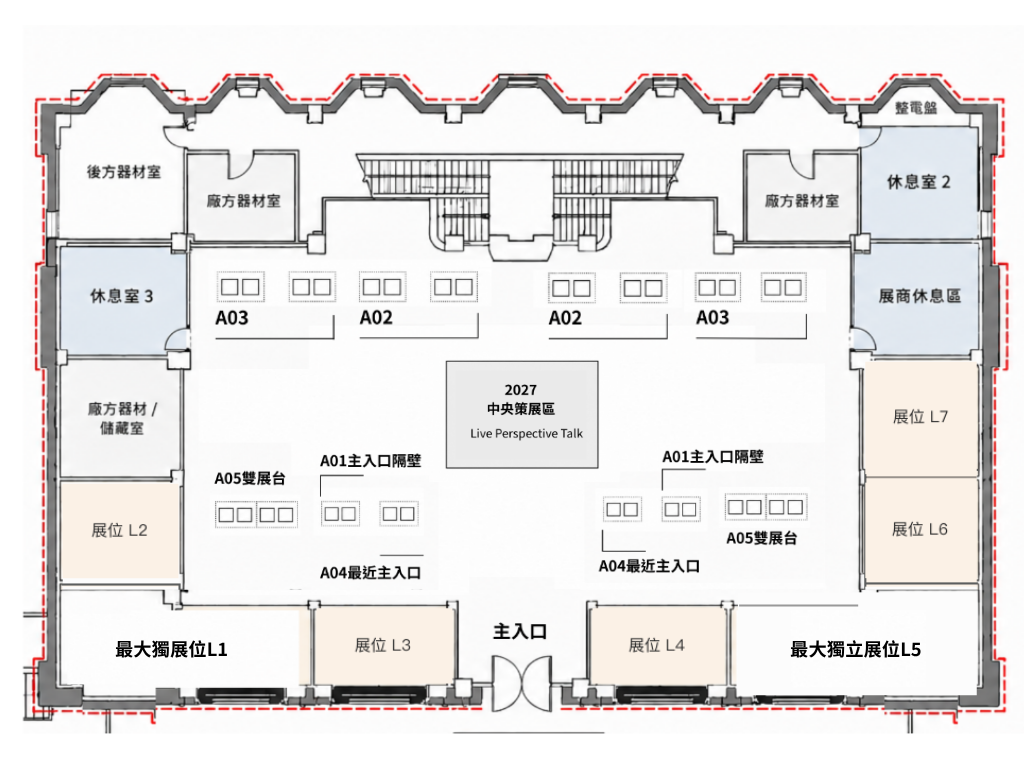
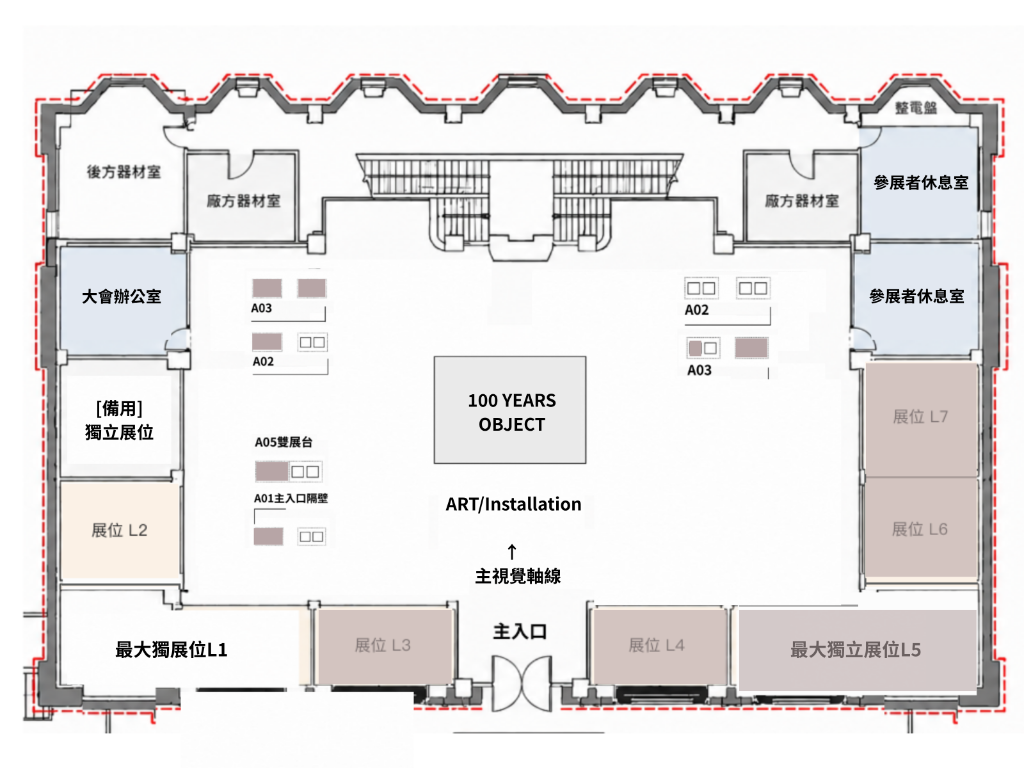
feat: replace all floor plan images with updated exhibition layout

diff --git a/public/sw.js b/public/sw.js
@@ -1,1 +1,1 @@
-if(!self.define){let e,c={};const a=(a,i)=>(a=new URL(a+".js",i).href,c[a]||new Promise(c=>{if("document"in self){const e=document.createElement("script");e.src=a,e.onload=c,document.head.appendChild(e)}else e=a,importScripts(a),c()}).then(()=>{let e=c[a];if(!e)throw new Error(`Module ${a} didn’t register its module`);return e}));self.define=(i,s)=>{const n=e||("document"in self?document.currentScript.src:"")||location.href;if(c[n])return;let t={};const r=e=>a(e,n),d={module:{uri:n},exports:t,require:r};c[n]=Promise.all(i.map(e=>d[e]||r(e))).then(e=>(s(...e),t))}}define(["./workbox-4754cb34"],function(e){"use strict";importScripts(),self.skipWaiting(),e.clientsClaim(),e.precacheAndRoute([{url:"/_next/static/V8hUjqDGDquntnj3F3b3R/_buildManifest.js",revision:"75177b38594e4441e4c8e21217dd204f"},{url:"/_next/static/V8hUjqDGDquntnj3F3b3R/_ssgManifest.js",revision:"b6652df95db52feb4daf4eca35380933"},{url:"/_next/static/chunks/1935.12d67265dbe87d5c.js",revision:"12d67265dbe87d5c"},{url:"/_next/static/chunks/2442-48fc89cc48020f3b.js",revision:"48fc89cc48020f3b"},{url:"/_next/static/chunks/3794-9e54f1de291f2323.js",revision:"9e54f1de291f2323"},{url:"/_next/static/chunks/44530001-2ecdcc5f8e26ad69.js",revision:"2ecdcc5f8e26ad69"},{url:"/_next/static/chunks/4bd1b696-c2f6e0877b6c10aa.js",revision:"c2f6e0877b6c10aa"},{url:"/_next/static/chunks/5718-a2e83a96d3df638b.js",revision:"a2e83a96d3df638b"},{url:"/_next/static/chunks/7cb1fa1f.c2615f09a99b926c.js",revision:"c2615f09a99b926c"},{url:"/_next/static/chunks/8108-75477c9dbc44e665.js",revision:"75477c9dbc44e665"},{url:"/_next/static/chunks/8559-80069baef70ba5d4.js",revision:"80069baef70ba5d4"},{url:"/_next/static/chunks/9664-24ef6aaf386e093f.js",revision:"24ef6aaf386e093f"},{url:"/_next/static/chunks/9756-25b6505cfdb3c2d2.js",revision:"25b6505cfdb3c2d2"},{url:"/_next/static/chunks/9764-1abf12f3e423063c.js",revision:"1abf12f3e423063c"},{url:"/_next/static/chunks/9829-d9c5bcde0c562b53.js",revision:"d9c5bcde0c562b53"},{url:"/_next/static/chunks/9831-eadcb2320384112e.js",revision:"eadcb2320384112e"},{url:"/_next/static/chunks/ad2866b8.9e1c933b214cdd99.js",revision:"9e1c933b214cdd99"},{url:"/_next/static/chunks/app/_global-error/page-d97d23c19126dbcb.js",revision:"d97d23c19126dbcb"},{url:"/_next/static/chunks/app/_not-found/page-4fb20552999d0ddb.js",revision:"4fb20552999d0ddb"},{url:"/_next/static/chunks/app/api/campaigns/route-d97d23c19126dbcb.js",revision:"d97d23c19126dbcb"},{url:"/_next/static/chunks/app/api/exhibitor/apply/route-d97d23c19126dbcb.js",revision:"d97d23c19126dbcb"},{url:"/_next/static/chunks/app/api/exhibitor/proof/route-d97d23c19126dbcb.js",revision:"d97d23c19126dbcb"},{url:"/_next/static/chunks/app/api/keep-alive/route-d97d23c19126dbcb.js",revision:"d97d23c19126dbcb"},{url:"/_next/static/chunks/app/api/tickets/broadcast/route-d97d23c19126dbcb.js",revision:"d97d23c19126dbcb"},{url:"/_next/static/chunks/app/api/tickets/register/route-d97d23c19126dbcb.js",revision:"d97d23c19126dbcb"},{url:"/_next/static/chunks/app/api/tickets/waitlist/route-d97d23c19126dbcb.js",revision:"d97d23c19126dbcb"},{url:"/_next/static/chunks/app/api/vip/approve/route-d97d23c19126dbcb.js",revision:"d97d23c19126dbcb"},{url:"/_next/static/chunks/app/exhibitor/admin/page-b609a5f36ea6ddea.js",revision:"b609a5f36ea6ddea"},{url:"/_next/static/chunks/app/exhibitor/apply/page-64c53afe7dea1bba.js",revision:"64c53afe7dea1bba"},{url:"/_next/static/chunks/app/exhibitor/page-d66d629215ed1d51.js",revision:"d66d629215ed1d51"},{url:"/_next/static/chunks/app/exhibitor/portal/compliance/page-dfd4bd4cb59877c2.js",revision:"dfd4bd4cb59877c2"},{url:"/_next/static/chunks/app/exhibitor/portal/layout-b7ad33b60a245db0.js",revision:"b7ad33b60a245db0"},{url:"/_next/static/chunks/app/exhibitor/portal/media/page-090a0c3ca4f453f6.js",revision:"090a0c3ca4f453f6"},{url:"/_next/static/chunks/app/exhibitor/portal/page-4ece754320ecd03e.js",revision:"4ece754320ecd03e"},{url:"/_next/static/chunks/app/exhibitor/portal/vip/page-bf5567f74671b89a.js",revision:"bf5567f74671b89a"},{url:"/_next/static/chunks/app/exhibitor/reset-password/page-f543c7c10670e77e.js",revision:"f543c7c10670e77e"},{url:"/_next/static/chunks/app/layout-899b1b698a50d421.js",revision:"899b1b698a50d421"},{url:"/_next/static/chunks/app/page-9a2972b1899ac7d5.js",revision:"9a2972b1899ac7d5"},{url:"/_next/static/chunks/app/ticket/page-cf31bd42c00bb2d7.js",revision:"cf31bd42c00bb2d7"},{url:"/_next/static/chunks/app/v2/page-67de40bd58d92800.js",revision:"67de40bd58d92800"},{url:"/_next/static/chunks/app/vip/admin/page-2cf82e7f9aa4d7cc.js",revision:"2cf82e7f9aa4d7cc"},{url:"/_next/static/chunks/app/vip/apply/page-65ada55b13cea152.js",revision:"65ada55b13cea152"},{url:"/_next/static/chunks/app/vip/blind-box/page-2b82f73f1bbc82a8.js",revision:"2b82f73f1bbc82a8"},{url:"/_next/static/chunks/app/vip/blind-box/redeem/page-2e19fa63aa1a11d2.js",revision:"2e19fa63aa1a11d2"},{url:"/_next/static/chunks/app/vip/dashboard/page-45e9f12285d4e40b.js",revision:"45e9f12285d4e40b"},{url:"/_next/static/chunks/app/vip/onboarding/page-3bc4e6a51a81ccdf.js",revision:"3bc4e6a51a81ccdf"},{url:"/_next/static/chunks/app/vip/page-03d7d74d1ef32412.js",revision:"03d7d74d1ef32412"},{url:"/_next/static/chunks/app/vip/scanner/page-d5c4a9ad0924c732.js",revision:"d5c4a9ad0924c732"},{url:"/_next/static/chunks/app/vip/story/page-b2d054c6b219987f.js",revision:"b2d054c6b219987f"},{url:"/_next/static/chunks/framework-d1de002210ddaaef.js",revision:"d1de002210ddaaef"},{url:"/_next/static/chunks/main-3acf8a3c0f422181.js",revision:"3acf8a3c0f422181"},{url:"/_next/static/chunks/main-app-895b698ab6d851d1.js",revision:"895b698ab6d851d1"},{url:"/_next/static/chunks/next/dist/client/components/builtin/app-error-d97d23c19126dbcb.js",revision:"d97d23c19126dbcb"},{url:"/_next/static/chunks/next/dist/client/components/builtin/forbidden-d97d23c19126dbcb.js",revision:"d97d23c19126dbcb"},{url:"/_next/static/chunks/next/dist/client/components/builtin/global-error-06ee0a672a74501d.js",revision:"06ee0a672a74501d"},{url:"/_next/static/chunks/next/dist/client/components/builtin/not-found-d97d23c19126dbcb.js",revision:"d97d23c19126dbcb"},{url:"/_next/static/chunks/next/dist/client/components/builtin/unauthorized-d97d23c19126dbcb.js",revision:"d97d23c19126dbcb"},{url:"/_next/static/chunks/polyfills-42372ed130431b0a.js",revision:"846118c33b2c0e922d7b3a7676f81f6f"},{url:"/_next/static/chunks/webpack-e0b90c65d878cbf2.js",revision:"e0b90c65d878cbf2"},{url:"/_next/static/css/b496025c9cd768cc.css",revision:"b496025c9cd768cc"},{url:"/_next/static/css/f29b544a8f7f7f45.css",revision:"f29b544a8f7f7f45"},{url:"/_next/static/media/013b72fa676f92e0-s.woff2",revision:"bc06a1ea50382b6956e53aeb91c889c1"},{url:"/_next/static/media/22a5144ee8d83bca-s.p.woff2",revision:"f4634c3bc1fa7cb53247e1f2872adb5a"},{url:"/_next/static/media/2b5b02fc7e511755-s.woff2",revision:"a27466d069120e75e25b4fd06edd5be2"},{url:"/_next/static/media/65f03d54ccadf4a8-s.woff2",revision:"58bcf4f276e0844890901b91c411447c"},{url:"/_next/static/media/7d4881bb7e1bf84d-s.p.woff2",revision:"cd5b25781181c5c03d99ac2cbf88016a"},{url:"/_next/static/media/9766a7e9e2e0ad5a-s.woff2",revision:"9a45f5a5937490fac6d4f5043a36c125"},{url:"/_next/static/media/aa016aab0e6d1295-s.woff2",revision:"49215a3bccaeb5d483f4cf8fceb24776"},{url:"/_next/static/media/b66cf8e69499582a-s.woff2",revision:"dea7cff2e11a000dc4e0e913992f9c21"},{url:"/_next/static/media/b9408752a0c24fb9-s.woff2",revision:"c10faa6c8fbd7a47d8f00e75e82935cb"},{url:"/_next/static/media/e038a29029a234f2-s.woff2",revision:"42a21c981b367f31bd04683072dae1c1"},{url:"/_next/static/media/f639721981034f88-s.woff2",revision:"f4a75186954722ca80df35984adf581d"},{url:"/blue_island.jpg",revision:"1432414db50782bea7f28e191856128e"},{url:"/blue_island.png",revision:"763f3c71785c1322cc0df65371c41ab4"},{url:"/exhibitor_banner.png",revision:"1a65b566b2f0edee7635b8a0a1b83ae4"},{url:"/exhibitor_banner_new.png",revision:"ca6ad490906e22a5d9bb98beca03a496"},{url:"/exhibitor_banner_new_v2.png",revision:"6a1e11918372a74a7a2681eed5be3fd2"},{url:"/exhibitor_banner_new_v3.jpg",revision:"606bfe90409a51af5249f27ae3b20fd9"},{url:"/exhibitor_floor_plan.png",revision:"51ef320d01761dccd6dac7f8753c08e0"},{url:"/exhibitor_floor_plan_2027.png",revision:"51ef320d01761dccd6dac7f8753c08e0"},{url:"/exhibitor_floor_plan_2027_new.png",revision:"51ef320d01761dccd6dac7f8753c08e0"},{url:"/file.svg",revision:"d09f95206c3fa0bb9bd9fefabfd0ea71"},{url:"/floor_plan_2027.html",revision:"d4dca620c567e254cd7e1493a36ba4fb"},{url:"/floor_plan_2027.png",revision:"51ef320d01761dccd6dac7f8753c08e0"},{url:"/floor_plan_2027_base.png",revision:"e428bcf5fc7f03ebcb63f6620835b557"},{url:"/floor_plan_2027_bg.png",revision:"78e6c0cc231fe44b9c5500aa28dac245"},{url:"/footer_sponsor_logo.png",revision:"d1662c4841b421ef2a415c73cc04c4bf"},{url:"/fountain_logo.png",revision:"10d4086b00b874a7a73f3c30f504d830"},{url:"/globe.svg",revision:"2aaafa6a49b6563925fe440891e32717"},{url:"/hero_main.png",revision:"2e88135a03a26bf502eb9945374d94b1"},{url:"/hero_main_new.jpg",revision:"ef6c243b835ea6ad866e7fdc663bd097"},{url:"/manifest.json",revision:"21eb5ce0d75a16ae98ee85087ac89255"},{url:"/next.svg",revision:"8e061864f388b47f33a1c3780831193e"},{url:"/sector_artsy.png",revision:"04858c7cc66071c39df068b4aa9cd7ec"},{url:"/sector_atelier.png",revision:"b67658c5e9f09c7f022258f69c04e2a5"},{url:"/sector_premier.png",revision:"7914f3e1c7c42c1aa984cc2922f40219"},{url:"/traditional_formats.png",revision:"043aba76fc6fd4b50c2409319611a69e"},{url:"/user_image_1.png",revision:"9526b95194fda972d61ec67dfe34776b"},{url:"/user_image_2.png",revision:"04858c7cc66071c39df068b4aa9cd7ec"},{url:"/user_image_3.png",revision:"7914f3e1c7c42c1aa984cc2922f40219"},{url:"/user_image_4.png",revision:"b67658c5e9f09c7f022258f69c04e2a5"},{url:"/venue_bg.jpg",revision:"f3e32d87d4ba221fb53dcfdcc27c4c71"},{url:"/vercel.svg",revision:"c0af2f507b369b085b35ef4bbe3bcf1e"},{url:"/vip_lobby_bg.jpg",revision:"fcce81985deb8508040366279ae5090f"},{url:"/vip_lobby_bg.png",revision:"fcce81985deb8508040366279ae5090f"},{url:"/vis_logo.png",revision:"6a1e11918372a74a7a2681eed5be3fd2"},{url:"/window.svg",revision:"a2760511c65806022ad20adf74370ff3"}],{ignoreURLParametersMatching:[]}),e.cleanupOutdatedCaches(),e.registerRoute("/",new e.NetworkFirst({cacheName:"start-url",plugins:[{cacheWillUpdate:async({request:e,response:c,event:a,state:i})=>c&&"opaqueredirect"===c.type?new Response(c.body,{status:200,statusText:"OK",headers:c.headers}):c}]}),"GET"),e.registerRoute(/^https:\/\/fonts\.(?:gstatic)\.com\/.*/i,new e.CacheFirst({cacheName:"google-fonts-webfonts",plugins:[new e.ExpirationPlugin({maxEntries:4,maxAgeSeconds:31536e3})]}),"GET"),e.registerRoute(/^https:\/\/fonts\.(?:googleapis)\.com\/.*/i,new e.StaleWhileRevalidate({cacheName:"google-fonts-stylesheets",plugins:[new e.ExpirationPlugin({maxEntries:4,maxAgeSeconds:604800})]}),"GET"),e.registerRoute(/\.(?:eot|otf|ttc|ttf|woff|woff2|font.css)$/i,new e.StaleWhileRevalidate({cacheName:"static-font-assets",plugins:[new e.ExpirationPlugin({maxEntries:4,maxAgeSeconds:604800})]}),"GET"),e.registerRoute(/\.(?:jpg|jpeg|gif|png|svg|ico|webp)$/i,new e.StaleWhileRevalidate({cacheName:"static-image-assets",plugins:[new e.ExpirationPlugin({maxEntries:64,maxAgeSeconds:86400})]}),"GET"),e.registerRoute(/\/_next\/image\?url=.+$/i,new e.StaleWhileRevalidate({cacheName:"next-image",plugins:[new e.ExpirationPlugin({maxEntries:64,maxAgeSeconds:86400})]}),"GET"),e.registerRoute(/\.(?:mp3|wav|ogg)$/i,new e.CacheFirst({cacheName:"static-audio-assets",plugins:[new e.RangeRequestsPlugin,new e.ExpirationPlugin({maxEntries:32,maxAgeSeconds:86400})]}),"GET"),e.registerRoute(/\.(?:mp4)$/i,new e.CacheFirst({cacheName:"static-video-assets",plugins:[new e.RangeRequestsPlugin,new e.ExpirationPlugin({maxEntries:32,maxAgeSeconds:86400})]}),"GET"),e.registerRoute(/\.(?:js)$/i,new e.StaleWhileRevalidate({cacheName:"static-js-assets",plugins:[new e.ExpirationPlugin({maxEntries:32,maxAgeSeconds:86400})]}),"GET"),e.registerRoute(/\.(?:css|less)$/i,new e.StaleWhileRevalidate({cacheName:"static-style-assets",plugins:[new e.ExpirationPlugin({maxEntries:32,maxAgeSeconds:86400})]}),"GET"),e.registerRoute(/\/_next\/data\/.+\/.+\.json$/i,new e.StaleWhileRevalidate({cacheName:"next-data",plugins:[new e.ExpirationPlugin({maxEntries:32,maxAgeSeconds:86400})]}),"GET"),e.registerRoute(/\.(?:json|xml|csv)$/i,new e.NetworkFirst({cacheName:"static-data-assets",plugins:[new e.ExpirationPlugin({maxEntries:32,maxAgeSeconds:86400})]}),"GET"),e.registerRoute(({url:e})=>{if(!(self.origin===e.origin))return!1;const c=e.pathname;return!c.startsWith("/api/auth/")&&!!c.startsWith("/api/")},new e.NetworkFirst({cacheName:"apis",networkTimeoutSeconds:10,plugins:[new e.ExpirationPlugin({maxEntries:16,maxAgeSeconds:86400})]}),"GET"),e.registerRoute(({url:e})=>{if(!(self.origin===e.origin))return!1;return!e.pathname.startsWith("/api/")},new e.NetworkFirst({cacheName:"others",networkTimeoutSeconds:10,plugins:[new e.ExpirationPlugin({maxEntries:32,maxAgeSeconds:86400})]}),"GET"),e.registerRoute(({url:e})=>!(self.origin===e.origin),new e.NetworkFirst({cacheName:"cross-origin",networkTimeoutSeconds:10,plugins:[new e.ExpirationPlugin({maxEntries:32,maxAgeSeconds:3600})]}),"GET")});
+if(!self.define){let e,a={};const c=(c,i)=>(c=new URL(c+".js",i).href,a[c]||new Promise(a=>{if("document"in self){const e=document.createElement("script");e.src=c,e.onload=a,document.head.appendChild(e)}else e=c,importScripts(c),a()}).then(()=>{let e=a[c];if(!e)throw new Error(`Module ${c} didn’t register its module`);return e}));self.define=(i,s)=>{const n=e||("document"in self?document.currentScript.src:"")||location.href;if(a[n])return;let t={};const r=e=>c(e,n),d={module:{uri:n},exports:t,require:r};a[n]=Promise.all(i.map(e=>d[e]||r(e))).then(e=>(s(...e),t))}}define(["./workbox-4754cb34"],function(e){"use strict";importScripts(),self.skipWaiting(),e.clientsClaim(),e.precacheAndRoute([{url:"/_next/static/chunks/1935.12d67265dbe87d5c.js",revision:"12d67265dbe87d5c"},{url:"/_next/static/chunks/2442-48fc89cc48020f3b.js",revision:"48fc89cc48020f3b"},{url:"/_next/static/chunks/3794-9e54f1de291f2323.js",revision:"9e54f1de291f2323"},{url:"/_next/static/chunks/44530001-2ecdcc5f8e26ad69.js",revision:"2ecdcc5f8e26ad69"},{url:"/_next/static/chunks/4bd1b696-c2f6e0877b6c10aa.js",revision:"c2f6e0877b6c10aa"},{url:"/_next/static/chunks/5718-a2e83a96d3df638b.js",revision:"a2e83a96d3df638b"},{url:"/_next/static/chunks/7cb1fa1f.c2615f09a99b926c.js",revision:"c2615f09a99b926c"},{url:"/_next/static/chunks/8108-75477c9dbc44e665.js",revision:"75477c9dbc44e665"},{url:"/_next/static/chunks/8559-80069baef70ba5d4.js",revision:"80069baef70ba5d4"},{url:"/_next/static/chunks/9664-24ef6aaf386e093f.js",revision:"24ef6aaf386e093f"},{url:"/_next/static/chunks/9756-25b6505cfdb3c2d2.js",revision:"25b6505cfdb3c2d2"},{url:"/_next/static/chunks/9764-1abf12f3e423063c.js",revision:"1abf12f3e423063c"},{url:"/_next/static/chunks/9829-d9c5bcde0c562b53.js",revision:"d9c5bcde0c562b53"},{url:"/_next/static/chunks/9831-eadcb2320384112e.js",revision:"eadcb2320384112e"},{url:"/_next/static/chunks/ad2866b8.9e1c933b214cdd99.js",revision:"9e1c933b214cdd99"},{url:"/_next/static/chunks/app/_global-error/page-d97d23c19126dbcb.js",revision:"d97d23c19126dbcb"},{url:"/_next/static/chunks/app/_not-found/page-4fb20552999d0ddb.js",revision:"4fb20552999d0ddb"},{url:"/_next/static/chunks/app/api/campaigns/route-d97d23c19126dbcb.js",revision:"d97d23c19126dbcb"},{url:"/_next/static/chunks/app/api/exhibitor/apply/route-d97d23c19126dbcb.js",revision:"d97d23c19126dbcb"},{url:"/_next/static/chunks/app/api/exhibitor/proof/route-d97d23c19126dbcb.js",revision:"d97d23c19126dbcb"},{url:"/_next/static/chunks/app/api/keep-alive/route-d97d23c19126dbcb.js",revision:"d97d23c19126dbcb"},{url:"/_next/static/chunks/app/api/tickets/broadcast/route-d97d23c19126dbcb.js",revision:"d97d23c19126dbcb"},{url:"/_next/static/chunks/app/api/tickets/register/route-d97d23c19126dbcb.js",revision:"d97d23c19126dbcb"},{url:"/_next/static/chunks/app/api/tickets/waitlist/route-d97d23c19126dbcb.js",revision:"d97d23c19126dbcb"},{url:"/_next/static/chunks/app/api/vip/approve/route-d97d23c19126dbcb.js",revision:"d97d23c19126dbcb"},{url:"/_next/static/chunks/app/exhibitor/admin/page-b609a5f36ea6ddea.js",revision:"b609a5f36ea6ddea"},{url:"/_next/static/chunks/app/exhibitor/apply/page-64c53afe7dea1bba.js",revision:"64c53afe7dea1bba"},{url:"/_next/static/chunks/app/exhibitor/page-d66d629215ed1d51.js",revision:"d66d629215ed1d51"},{url:"/_next/static/chunks/app/exhibitor/portal/compliance/page-dfd4bd4cb59877c2.js",revision:"dfd4bd4cb59877c2"},{url:"/_next/static/chunks/app/exhibitor/portal/layout-b7ad33b60a245db0.js",revision:"b7ad33b60a245db0"},{url:"/_next/static/chunks/app/exhibitor/portal/media/page-090a0c3ca4f453f6.js",revision:"090a0c3ca4f453f6"},{url:"/_next/static/chunks/app/exhibitor/portal/page-4ece754320ecd03e.js",revision:"4ece754320ecd03e"},{url:"/_next/static/chunks/app/exhibitor/portal/vip/page-bf5567f74671b89a.js",revision:"bf5567f74671b89a"},{url:"/_next/static/chunks/app/exhibitor/reset-password/page-f543c7c10670e77e.js",revision:"f543c7c10670e77e"},{url:"/_next/static/chunks/app/layout-899b1b698a50d421.js",revision:"899b1b698a50d421"},{url:"/_next/static/chunks/app/page-9a2972b1899ac7d5.js",revision:"9a2972b1899ac7d5"},{url:"/_next/static/chunks/app/ticket/page-cf31bd42c00bb2d7.js",revision:"cf31bd42c00bb2d7"},{url:"/_next/static/chunks/app/v2/page-67de40bd58d92800.js",revision:"67de40bd58d92800"},{url:"/_next/static/chunks/app/vip/admin/page-2cf82e7f9aa4d7cc.js",revision:"2cf82e7f9aa4d7cc"},{url:"/_next/static/chunks/app/vip/apply/page-65ada55b13cea152.js",revision:"65ada55b13cea152"},{url:"/_next/static/chunks/app/vip/blind-box/page-2b82f73f1bbc82a8.js",revision:"2b82f73f1bbc82a8"},{url:"/_next/static/chunks/app/vip/blind-box/redeem/page-2e19fa63aa1a11d2.js",revision:"2e19fa63aa1a11d2"},{url:"/_next/static/chunks/app/vip/dashboard/page-45e9f12285d4e40b.js",revision:"45e9f12285d4e40b"},{url:"/_next/static/chunks/app/vip/onboarding/page-3bc4e6a51a81ccdf.js",revision:"3bc4e6a51a81ccdf"},{url:"/_next/static/chunks/app/vip/page-03d7d74d1ef32412.js",revision:"03d7d74d1ef32412"},{url:"/_next/static/chunks/app/vip/scanner/page-d5c4a9ad0924c732.js",revision:"d5c4a9ad0924c732"},{url:"/_next/static/chunks/app/vip/story/page-b2d054c6b219987f.js",revision:"b2d054c6b219987f"},{url:"/_next/static/chunks/framework-d1de002210ddaaef.js",revision:"d1de002210ddaaef"},{url:"/_next/static/chunks/main-3acf8a3c0f422181.js",revision:"3acf8a3c0f422181"},{url:"/_next/static/chunks/main-app-895b698ab6d851d1.js",revision:"895b698ab6d851d1"},{url:"/_next/static/chunks/next/dist/client/components/builtin/app-error-d97d23c19126dbcb.js",revision:"d97d23c19126dbcb"},{url:"/_next/static/chunks/next/dist/client/components/builtin/forbidden-d97d23c19126dbcb.js",revision:"d97d23c19126dbcb"},{url:"/_next/static/chunks/next/dist/client/components/builtin/global-error-06ee0a672a74501d.js",revision:"06ee0a672a74501d"},{url:"/_next/static/chunks/next/dist/client/components/builtin/not-found-d97d23c19126dbcb.js",revision:"d97d23c19126dbcb"},{url:"/_next/static/chunks/next/dist/client/components/builtin/unauthorized-d97d23c19126dbcb.js",revision:"d97d23c19126dbcb"},{url:"/_next/static/chunks/polyfills-42372ed130431b0a.js",revision:"846118c33b2c0e922d7b3a7676f81f6f"},{url:"/_next/static/chunks/webpack-e0b90c65d878cbf2.js",revision:"e0b90c65d878cbf2"},{url:"/_next/static/css/b496025c9cd768cc.css",revision:"b496025c9cd768cc"},{url:"/_next/static/css/f29b544a8f7f7f45.css",revision:"f29b544a8f7f7f45"},{url:"/_next/static/media/013b72fa676f92e0-s.woff2",revision:"bc06a1ea50382b6956e53aeb91c889c1"},{url:"/_next/static/media/22a5144ee8d83bca-s.p.woff2",revision:"f4634c3bc1fa7cb53247e1f2872adb5a"},{url:"/_next/static/media/2b5b02fc7e511755-s.woff2",revision:"a27466d069120e75e25b4fd06edd5be2"},{url:"/_next/static/media/65f03d54ccadf4a8-s.woff2",revision:"58bcf4f276e0844890901b91c411447c"},{url:"/_next/static/media/7d4881bb7e1bf84d-s.p.woff2",revision:"cd5b25781181c5c03d99ac2cbf88016a"},{url:"/_next/static/media/9766a7e9e2e0ad5a-s.woff2",revision:"9a45f5a5937490fac6d4f5043a36c125"},{url:"/_next/static/media/aa016aab0e6d1295-s.woff2",revision:"49215a3bccaeb5d483f4cf8fceb24776"},{url:"/_next/static/media/b66cf8e69499582a-s.woff2",revision:"dea7cff2e11a000dc4e0e913992f9c21"},{url:"/_next/static/media/b9408752a0c24fb9-s.woff2",revision:"c10faa6c8fbd7a47d8f00e75e82935cb"},{url:"/_next/static/media/e038a29029a234f2-s.woff2",revision:"42a21c981b367f31bd04683072dae1c1"},{url:"/_next/static/media/f639721981034f88-s.woff2",revision:"f4a75186954722ca80df35984adf581d"},{url:"/_next/static/wIyLLupWfvwQTrxt8qlXO/_buildManifest.js",revision:"75177b38594e4441e4c8e21217dd204f"},{url:"/_next/static/wIyLLupWfvwQTrxt8qlXO/_ssgManifest.js",revision:"b6652df95db52feb4daf4eca35380933"},{url:"/blue_island.jpg",revision:"1432414db50782bea7f28e191856128e"},{url:"/blue_island.png",revision:"763f3c71785c1322cc0df65371c41ab4"},{url:"/exhibitor_banner.png",revision:"1a65b566b2f0edee7635b8a0a1b83ae4"},{url:"/exhibitor_banner_new.png",revision:"ca6ad490906e22a5d9bb98beca03a496"},{url:"/exhibitor_banner_new_v2.png",revision:"6a1e11918372a74a7a2681eed5be3fd2"},{url:"/exhibitor_banner_new_v3.jpg",revision:"606bfe90409a51af5249f27ae3b20fd9"},{url:"/exhibitor_floor_plan.png",revision:"f3ab4e4d7329c16415e070058d6d0ce4"},{url:"/exhibitor_floor_plan_2027.png",revision:"f3ab4e4d7329c16415e070058d6d0ce4"},{url:"/exhibitor_floor_plan_2027_new.png",revision:"f3ab4e4d7329c16415e070058d6d0ce4"},{url:"/file.svg",revision:"d09f95206c3fa0bb9bd9fefabfd0ea71"},{url:"/floor_plan_2027.html",revision:"d4dca620c567e254cd7e1493a36ba4fb"},{url:"/floor_plan_2027.png",revision:"f3ab4e4d7329c16415e070058d6d0ce4"},{url:"/floor_plan_2027_base.png",revision:"e428bcf5fc7f03ebcb63f6620835b557"},{url:"/floor_plan_2027_bg.png",revision:"78e6c0cc231fe44b9c5500aa28dac245"},{url:"/footer_sponsor_logo.png",revision:"d1662c4841b421ef2a415c73cc04c4bf"},{url:"/fountain_logo.png",revision:"10d4086b00b874a7a73f3c30f504d830"},{url:"/globe.svg",revision:"2aaafa6a49b6563925fe440891e32717"},{url:"/hero_main.png",revision:"2e88135a03a26bf502eb9945374d94b1"},{url:"/hero_main_new.jpg",revision:"ef6c243b835ea6ad866e7fdc663bd097"},{url:"/manifest.json",revision:"21eb5ce0d75a16ae98ee85087ac89255"},{url:"/next.svg",revision:"8e061864f388b47f33a1c3780831193e"},{url:"/sector_artsy.png",revision:"04858c7cc66071c39df068b4aa9cd7ec"},{url:"/sector_atelier.png",revision:"b67658c5e9f09c7f022258f69c04e2a5"},{url:"/sector_premier.png",revision:"7914f3e1c7c42c1aa984cc2922f40219"},{url:"/traditional_formats.png",revision:"043aba76fc6fd4b50c2409319611a69e"},{url:"/user_image_1.png",revision:"9526b95194fda972d61ec67dfe34776b"},{url:"/user_image_2.png",revision:"04858c7cc66071c39df068b4aa9cd7ec"},{url:"/user_image_3.png",revision:"7914f3e1c7c42c1aa984cc2922f40219"},{url:"/user_image_4.png",revision:"b67658c5e9f09c7f022258f69c04e2a5"},{url:"/venue_bg.jpg",revision:"f3e32d87d4ba221fb53dcfdcc27c4c71"},{url:"/vercel.svg",revision:"c0af2f507b369b085b35ef4bbe3bcf1e"},{url:"/vip_lobby_bg.jpg",revision:"fcce81985deb8508040366279ae5090f"},{url:"/vip_lobby_bg.png",revision:"fcce81985deb8508040366279ae5090f"},{url:"/vis_logo.png",revision:"6a1e11918372a74a7a2681eed5be3fd2"},{url:"/window.svg",revision:"a2760511c65806022ad20adf74370ff3"}],{ignoreURLParametersMatching:[]}),e.cleanupOutdatedCaches(),e.registerRoute("/",new e.NetworkFirst({cacheName:"start-url",plugins:[{cacheWillUpdate:async({request:e,response:a,event:c,state:i})=>a&&"opaqueredirect"===a.type?new Response(a.body,{status:200,statusText:"OK",headers:a.headers}):a}]}),"GET"),e.registerRoute(/^https:\/\/fonts\.(?:gstatic)\.com\/.*/i,new e.CacheFirst({cacheName:"google-fonts-webfonts",plugins:[new e.ExpirationPlugin({maxEntries:4,maxAgeSeconds:31536e3})]}),"GET"),e.registerRoute(/^https:\/\/fonts\.(?:googleapis)\.com\/.*/i,new e.StaleWhileRevalidate({cacheName:"google-fonts-stylesheets",plugins:[new e.ExpirationPlugin({maxEntries:4,maxAgeSeconds:604800})]}),"GET"),e.registerRoute(/\.(?:eot|otf|ttc|ttf|woff|woff2|font.css)$/i,new e.StaleWhileRevalidate({cacheName:"static-font-assets",plugins:[new e.ExpirationPlugin({maxEntries:4,maxAgeSeconds:604800})]}),"GET"),e.registerRoute(/\.(?:jpg|jpeg|gif|png|svg|ico|webp)$/i,new e.StaleWhileRevalidate({cacheName:"static-image-assets",plugins:[new e.ExpirationPlugin({maxEntries:64,maxAgeSeconds:86400})]}),"GET"),e.registerRoute(/\/_next\/image\?url=.+$/i,new e.StaleWhileRevalidate({cacheName:"next-image",plugins:[new e.ExpirationPlugin({maxEntries:64,maxAgeSeconds:86400})]}),"GET"),e.registerRoute(/\.(?:mp3|wav|ogg)$/i,new e.CacheFirst({cacheName:"static-audio-assets",plugins:[new e.RangeRequestsPlugin,new e.ExpirationPlugin({maxEntries:32,maxAgeSeconds:86400})]}),"GET"),e.registerRoute(/\.(?:mp4)$/i,new e.CacheFirst({cacheName:"static-video-assets",plugins:[new e.RangeRequestsPlugin,new e.ExpirationPlugin({maxEntries:32,maxAgeSeconds:86400})]}),"GET"),e.registerRoute(/\.(?:js)$/i,new e.StaleWhileRevalidate({cacheName:"static-js-assets",plugins:[new e.ExpirationPlugin({maxEntries:32,maxAgeSeconds:86400})]}),"GET"),e.registerRoute(/\.(?:css|less)$/i,new e.StaleWhileRevalidate({cacheName:"static-style-assets",plugins:[new e.ExpirationPlugin({maxEntries:32,maxAgeSeconds:86400})]}),"GET"),e.registerRoute(/\/_next\/data\/.+\/.+\.json$/i,new e.StaleWhileRevalidate({cacheName:"next-data",plugins:[new e.ExpirationPlugin({maxEntries:32,maxAgeSeconds:86400})]}),"GET"),e.registerRoute(/\.(?:json|xml|csv)$/i,new e.NetworkFirst({cacheName:"static-data-assets",plugins:[new e.ExpirationPlugin({maxEntries:32,maxAgeSeconds:86400})]}),"GET"),e.registerRoute(({url:e})=>{if(!(self.origin===e.origin))return!1;const a=e.pathname;return!a.startsWith("/api/auth/")&&!!a.startsWith("/api/")},new e.NetworkFirst({cacheName:"apis",networkTimeoutSeconds:10,plugins:[new e.ExpirationPlugin({maxEntries:16,maxAgeSeconds:86400})]}),"GET"),e.registerRoute(({url:e})=>{if(!(self.origin===e.origin))return!1;return!e.pathname.startsWith("/api/")},new e.NetworkFirst({cacheName:"others",networkTimeoutSeconds:10,plugins:[new e.ExpirationPlugin({maxEntries:32,maxAgeSeconds:86400})]}),"GET"),e.registerRoute(({url:e})=>!(self.origin===e.origin),new e.NetworkFirst({cacheName:"cross-origin",networkTimeoutSeconds:10,plugins:[new e.ExpirationPlugin({maxEntries:32,maxAgeSeconds:3600})]}),"GET")});
